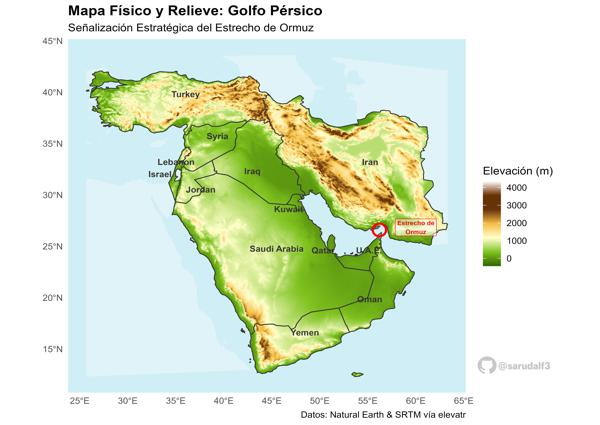
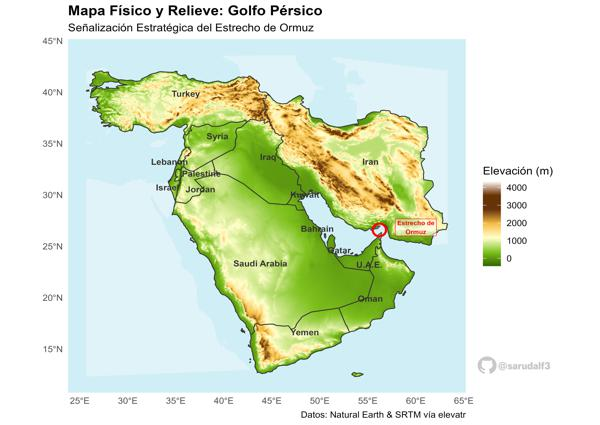
replace geoChart

diff --git a/_posts/2026-03-27-Map-Chart.md b/_posts/2026-03-27-Map-Chart.md
@@ -31,7 +31,7 @@ El primer desafío es definir nuestra área de interés. No basta con selecciona
 
 ```R
 # Definir países
-paises_nombres <- c("Iran", "Qatar", "Saudi Arabia", "Yemen", "Israel", "Iraq", "Syria", "Turkey", "Oman", "Kuwait", "United Arab Emirates", "Jordan", "Lebanon")
+paises_nombres <- c("Iran", "Qatar", "Saudi Arabia", "Yemen", "Israel", "Iraq", "Syria", "Turkey", "Oman", "Kuwait", "United Arab Emirates", "Jordan", "Lebanon", "Bahrain", "Palestine")
 
 # Obtener geometrías y aplicar correcciones de nombres
 world <- ne_countries(scale = "medium", returnclass = "sf")
@@ -115,7 +115,7 @@ theme(panel.background = element_rect(fill = "#d0eef5", color = NA),
 El gráfico resultante es el siguiente
 
 <div class="image_center mb-4 mt-2">
-    <img src="/assets/images/posts/SpatMap.jpg" alt="GCC_countries" style="max-width: 120%; max-height: 120%;"/> 
+    <img src="/assets/images/posts/SpatMapOrg.jpg" alt="GCC_countries" style="max-width: 120%; max-height: 120%;"/> 
 </div>
 
 
